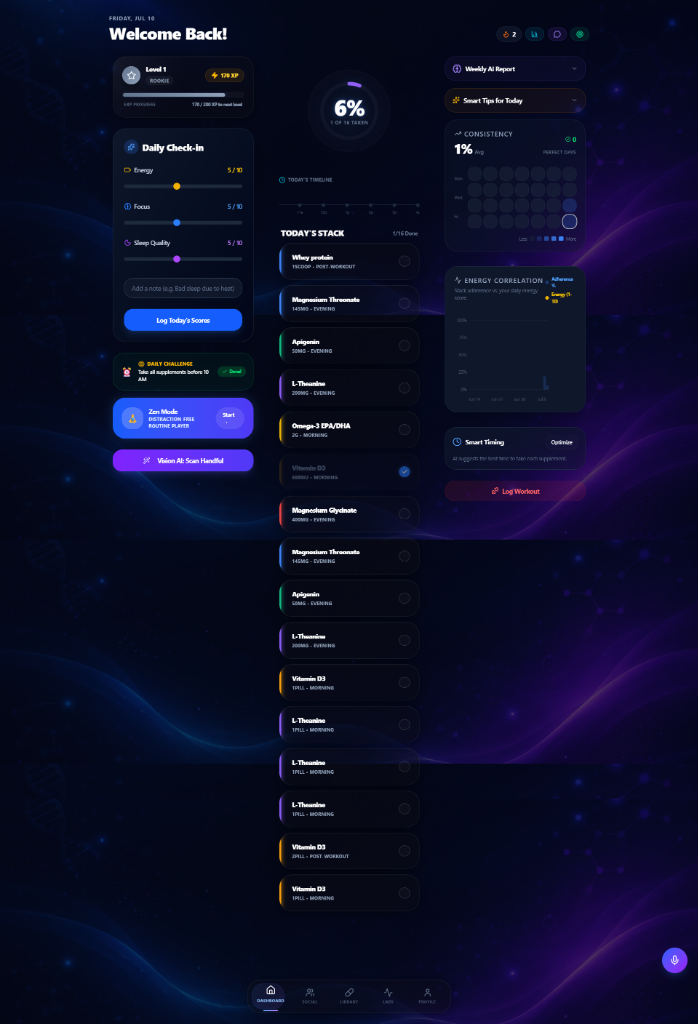
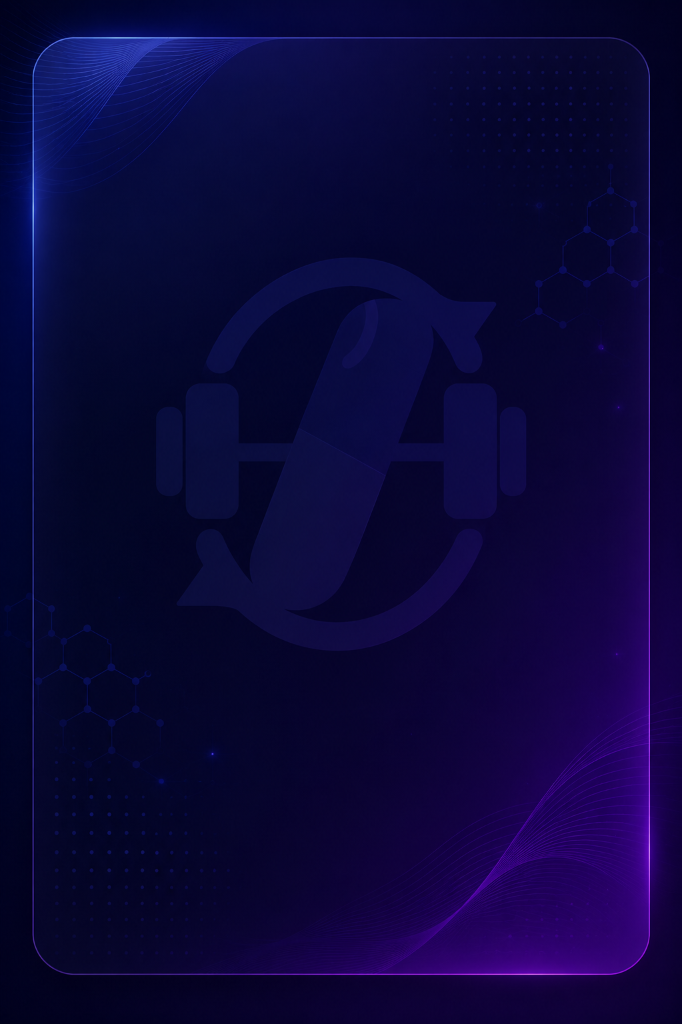
fix: apply dynamic oklab style patching during canvas generation and attach updated card background image

diff --git a/src/app/library/page.tsx b/src/app/library/page.tsx
@@ -141,7 +141,23 @@ export default function LibraryPage() {
     const handleDownloadPng = async () => {
         if (!shareCardRef.current) return
         setIsExporting(true)
+
+        // Temporarily patch oklch and oklab stylesheet rules to prevent html2canvas crash
+        const styleElements = Array.from(document.querySelectorAll('style'));
+        const originalStyles = styleElements.map(el => ({
+            el,
+            text: el.textContent
+        }));
+
         try {
+            styleElements.forEach(el => {
+                if (el.textContent && (el.textContent.includes('oklch') || el.textContent.includes('oklab'))) {
+                    el.textContent = el.textContent
+                        .replace(/oklch\([^)]+\)/g, 'rgba(255,255,255,0.1)')
+                        .replace(/oklab\([^)]+\)/g, 'rgba(255,255,255,0.1)');
+                }
+            });
+
             await new Promise(r => setTimeout(r, 200))
             const canvas = await html2canvas(shareCardRef.current, {
                 scale: 3,
@@ -156,6 +172,10 @@ export default function LibraryPage() {
         } catch (error) {
             console.error('Failed to compile PNG:', error)
         } finally {
+            // Restore original styles immediately
+            originalStyles.forEach(({ el, text }) => {
+                el.textContent = text;
+            });
             setIsExporting(false)
         }
     }

diff --git a/src/components/library/share-stack-dialog.tsx b/src/components/library/share-stack-dialog.tsx
@@ -45,7 +45,22 @@ export function ShareStackDialog({ supplements, streak }: ShareStackProps) {
         if (!cardRef.current) return
         setIsGenerating(true)
 
+        // Temporarily patch oklch and oklab stylesheet rules to prevent html2canvas crash
+        const styleElements = Array.from(document.querySelectorAll('style'));
+        const originalStyles = styleElements.map(el => ({
+            el,
+            text: el.textContent
+        }));
+
         try {
+            styleElements.forEach(el => {
+                if (el.textContent && (el.textContent.includes('oklch') || el.textContent.includes('oklab'))) {
+                    el.textContent = el.textContent
+                        .replace(/oklch\([^)]+\)/g, 'rgba(255,255,255,0.1)')
+                        .replace(/oklab\([^)]+\)/g, 'rgba(255,255,255,0.1)');
+                }
+            });
+
             await new Promise(r => setTimeout(r, 200))
             const canvas = await html2canvas(cardRef.current, {
                 scale: 3, 
@@ -82,6 +97,10 @@ export function ShareStackDialog({ supplements, streak }: ShareStackProps) {
             console.error('Error generating image:', error)
             alert('Failed to generate export card.')
         } finally {
+            // Restore original styles immediately
+            originalStyles.forEach(({ el, text }) => {
+                el.textContent = text;
+            });
             setIsGenerating(false)
         }
     }